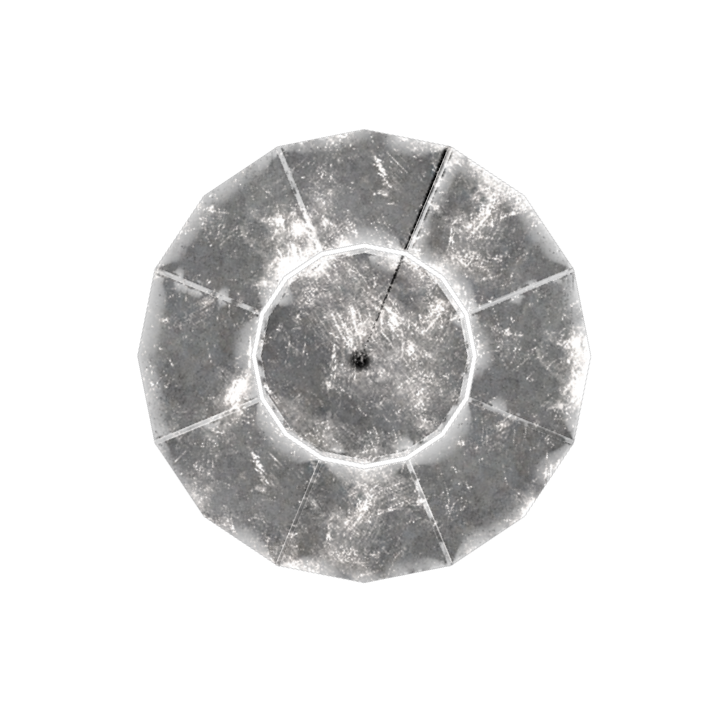
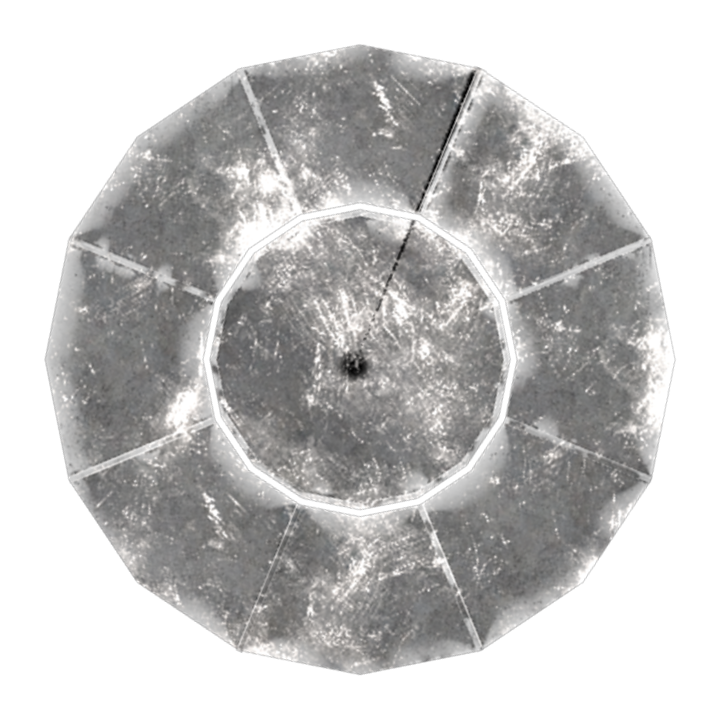
Dodanie statystyk, podmiana tarczy, poprawa materiałów, znikalność okienek

diff --git a/Assets/Scripts/GameLogicDataScript.cs b/Assets/Scripts/GameLogicDataScript.cs
@@ -3,6 +3,7 @@ using UnityEngine.UI;
 using System.Collections;
 using System.Collections.Generic;
 using System;
+using System.Text;
 
 /// <summary>
 /// Klasa odpowiada za logikę i przetrzymywanie danych o rozgrywce.
@@ -15,6 +16,28 @@ public class GameLogicDataScript : MonoBehaviour {
 	bool skonczonopotej=false;
 	bool skonczonopoprzeciwnej=false;
 	bool skonczylemprzesyl=false;
+
+
+	GameObject tlg;
+	GameObject tld;
+	GameObject tpd;
+	GameObject tpg;
+
+	//POLA STATYSTYK
+	/// <summary>
+	/// Przechowuje informację o liczbie aktualnej tury.
+	/// </summary>
+	public int tura=1;
+	static public int zablokowaneAtaki=0;
+	static public int wykonaneAtaki=0;
+	static public int wykonaneObrony=0;
+	static public double pozostaleZycie=0;
+	static public int wynik=0;
+	static string statystyki;
+
+	static string plikStatystyk="stats.sts";
+
+
 	//POLA DOTYCZĄCE LOGIKI ROZGRYWKI
 	/// <summary>
 	/// Długość jednej rundy.
@@ -51,10 +74,7 @@ public class GameLogicDataScript : MonoBehaviour {
 	public static double interwalAkcjaGracza=0.0;
 
 
-	/// <summary>
-	/// Przechowuje informację o liczbie aktualnej tury.
-	/// </summary>
-	public int tura=1;
+
 	/// <summary>
 	/// Flaga, która przyjmuje fałsz po upływie czasu tury.
 	/// </summary>
@@ -190,6 +210,10 @@ public class GameLogicDataScript : MonoBehaviour {
 	/// Inicjalizuje pola graczy, czas i teksty wyświetlane na HUD'zie
 	/// </summary>
 	void Start () {
+		tlg=GameObject.Find("tabliczkalewagorna");
+		tld=GameObject.Find("tabliczkalewadolna");
+		tpd=GameObject.Find("tabliczkaprawadolna");
+		tpg=GameObject.Find("tabliczkaprawagorna");
 		player=GameObject.Find("Player");
 		opponent=GameObject.Find("Opponent");
 		punktyAkcjiGracza=10;
@@ -352,8 +376,8 @@ public class GameLogicDataScript : MonoBehaviour {
 
 								if (!animacjaNPCSkonczona) {
 									akcjeNPC [jAnim].animuj ();
-								GameObject.Find ("strataNPCText").GetComponent<Text> ().text = "-" + GameLogicDataScript.stratyNPC.ToString () + " p";
-							}
+									GameObject.Find ("strataNPCText").GetComponent<Text> ().text = "-" + GameLogicDataScript.stratyNPC.ToString () + " p";
+								}
 								if ((pozostalePAGracza > 0) && (pozostalePANPC > 0)) {
 									aktKosztPAGracza = akcjeGracza [i].getKoszt ();
 									aktKosztPANPC = akcjeNPC [j].getKoszt ();
@@ -414,6 +438,7 @@ public class GameLogicDataScript : MonoBehaviour {
 											interwalAkcjaGracza = System.Convert.ToDouble (aktKosztPAGracza) * mnoznikCzasu;
 											interwalAkcjaNPC = System.Convert.ToDouble (aktKosztPANPC) * mnoznikCzasu;
 
+											if (pokryte>0) zablokowaneAtaki+=1;
 											pozostalePANPC -= aktKosztPANPC;
 											akcjeNPC [j].setIloscPol (akcjeNPC [j].getIloscPol () - pokryte);
 											((Atak)akcjeNPC [j]).aktualizujObrazenia ();
@@ -532,7 +557,8 @@ public class GameLogicDataScript : MonoBehaviour {
 												pozostalePAGracza -= aktKosztPAGracza;
 												ii = 1;
 											}
-										} else if ((pozostalePAGracza - aktKosztPAGracza) < (pozostalePANPC - aktKosztPANPC)) {
+										} 
+										else if ((pozostalePAGracza - aktKosztPAGracza) < (pozostalePANPC - aktKosztPANPC)) {
 											if (akcjaNPCSkonczona) {
 												jAnim = j;
 												/*print("------------------------------------------------------------AKCJA! ng:D n szybszy");
@@ -546,7 +572,8 @@ public class GameLogicDataScript : MonoBehaviour {
 												pozostalePANPC -= aktKosztPANPC;
 												jj = 1;
 											}
-										} else {
+										} 
+										else {
 											if ((akcjaGraczaSkonczona) && (akcjaNPCSkonczona)) {
 												jAnim = j;
 												iAnim = i;
@@ -571,8 +598,8 @@ public class GameLogicDataScript : MonoBehaviour {
 											}
 										}
 									}
-
-								} else if ((pozostalePAGracza > 0) && (pozostalePANPC <= 0)) {
+								} 
+								else if ((pozostalePAGracza > 0) && (pozostalePANPC <= 0)) {
 									aktKosztPAGracza = akcjeGracza [i].getKoszt ();
 									if (akcjaGraczaSkonczona) {
 										iAnim = i;
@@ -593,7 +620,8 @@ public class GameLogicDataScript : MonoBehaviour {
 										}
 										ii = 1;
 									}
-								} else if ((pozostalePANPC > 0) && (pozostalePAGracza <= 0)) {
+								} 
+								else if ((pozostalePANPC > 0) && (pozostalePAGracza <= 0)) {
 									aktKosztPANPC = akcjeNPC [j].getKoszt ();
 									if (akcjaNPCSkonczona) {
 										jAnim = j;
@@ -614,7 +642,8 @@ public class GameLogicDataScript : MonoBehaviour {
 										}
 										jj = 1;
 									}
-								} else {
+								} 
+								else {
 									//print("Koniec kolejki");
 									//j--; i--; animacjaGraczaSkonczona=false; animacjaNPCSkonczona=false;
 									j = akcjeNPC.Count - 1;
@@ -628,8 +657,27 @@ public class GameLogicDataScript : MonoBehaviour {
 								}
 
 								//jeśli, któryś z graczy umarł, zakończ rozgrywkę
-								if ((zycieNPC <= 0) || (zycieGracza <= 0))
-									koniecRozgrywki = true;
+								if ((zycieNPC<=0) || (zycieGracza<=0)){
+									if ((zycieNPC<=0)&&(zycieGracza>0)) {
+										wynik=1;
+										zycieNPC=0;
+										zapiszStatystyke();
+										koniecRozgrywki = true;
+									}
+									else if ((zycieNPC>0)&&(zycieGracza<=0)) {
+										wynik=0;
+										zycieGracza=0;
+										zapiszStatystyke();
+										koniecRozgrywki = true;
+									}
+									else if ((zycieNPC<=0)&&(zycieGracza<=0)) {
+										wynik=2;
+										zycieNPC=0;
+										zycieGracza=0;
+										zapiszStatystyke();
+										koniecRozgrywki = true;
+									}
+								}
 								aktualizujZycie ();
 							}
 
@@ -649,17 +697,27 @@ public class GameLogicDataScript : MonoBehaviour {
 						if (!animacjaGraczaSkonczona) akcjeGracza [iAnim].animuj ();
 						if (!animacjaNPCSkonczona) akcjeNPC [jAnim].animuj ();
 						if (animacjaNPCSkonczona&&animacjaGraczaSkonczona&&akcjaNPCSkonczona&&akcjaGraczaSkonczona){
+							tpd.active=false;
+							tld.active=false;
+							tpg.active=false;
+							tlg.active=false;
 							GameObject.Find("RundaHUDText").GetComponent<Text>().text="";	//ukrywam (czyszczę tekst) rundy wyświetlane na HUD'zie
 							GameObject.Find("CzasHUDText").GetComponent<Text>().text="";	//ukrywam (czyszczę tekst) czas wyświetlany na HUD'zie
 							GameObject.Find("ZycieGraczaHUDText").GetComponent<Text>().text="";	//ukrywam (czyszczę tekst) życie gracza wyświetlane na HUD'zie
 							GameObject.Find("ZycieNPCHUDText").GetComponent<Text>().text="";	//ukrywam (czyszczę tekst) życie NPC wyświetlane na HUD'zie
 							GameObject.Find("PAGraczaHUDText").GetComponent<Text>().text="";	//ukrywam (czyszczę tekst) punkty akcji wyświetlane na HUD'zie
-							//jeśli to gracz stracił życie pokaż tekst przegranej na HUD'zie
-							if((zycieGracza<=0)&&(zycieNPC>0)) GameObject.Find("WynikHUDText").GetComponent<Text>().text="Przegrana\n"+tura.ToString()+" rund";
+							statystyki=wczytajStatystyke();
+							GameObject.Find("WynikHUDText").GetComponent<Text>().text=statystyki;
+							/*//jeśli to gracz stracił życie pokaż tekst przegranej na HUD'zie
+							if((zycieGracza<=0)&&(zycieNPC>0)) {
+								GameObject.Find("WynikHUDText").GetComponent<Text>().text="Przegrana\n"+tura.ToString()+" rund";
+							}
 							//jeśli to NPC stracił życie pokaż tekst wygranej na HUD'zie
-							else if((zycieGracza>0)&&(zycieNPC<=0)) GameObject.Find("WynikHUDText").GetComponent<Text>().text="Zwycięstwo\n"+tura.ToString()+" rund";
+							else if((zycieGracza>0)&&(zycieNPC<=0)) {
+								GameObject.Find("WynikHUDText").GetComponent<Text>().text="Zwycięstwo\n"+tura.ToString()+" rund";
+							}
 							//jeśli to obaj stracili życie pokaż tekst remisu na HUD'zie
-							else GameObject.Find("WynikHUDText").GetComponent<Text>().text="Remis\n"+tura.ToString()+" rund";
+							else GameObject.Find("WynikHUDText").GetComponent<Text>().text="Remis\n"+tura.ToString()+" rund";*/
 							GameObject.Find ("CanvasButton").GetComponent<Canvas> ().enabled=false;
 
 						}
@@ -694,6 +752,8 @@ public class GameLogicDataScript : MonoBehaviour {
 					turaTrwa=false;	//przestawiam flagę trwania tury na fałsz
 
 					GameObject.Find("HUDCombatArea").GetComponent<Renderer>().enabled=false;
+					tlg.active=false;
+					tpg.active=false;
 					GameObject.Find("RundaHUDText").GetComponent<Text>().text="";	//ukrywam (czyszczę tekst) rundy wyświetlane na HUD'zie
 					GameObject.Find("CzasHUDText").GetComponent<Text>().text="";	//ukrywam (czyszczę tekst) czas wyświetlany na HUD'zie
 					GameObject.Find("PAGraczaHUDText").GetComponent<Text>().text="";	//ukrywam (czyszczę tekst) punkty akcji wyświetlane na HUD'zie
@@ -785,6 +845,10 @@ public class GameLogicDataScript : MonoBehaviour {
 							wykonane=false;
 						}
 						if (!koniecRozgrywki) {
+							tpd.active=false;
+							tld.active=false;
+							GameObject.Find("ZycieGraczaHUDText").GetComponent<Text>().text="";	//ukrywam (czyszczę tekst) życie gracza wyświetlane na HUD'zie
+							GameObject.Find("ZycieNPCHUDText").GetComponent<Text>().text="";	//ukrywam (czyszczę tekst) życie NPC wyświetlane na HUD'zie
 							if (skonczonopotej&&multiplayer) GameObject.Find("NastepnaTuraHUDText").GetComponent<Text>().text="Poczekaj na drugiego gracza...";
 							else GameObject.Find("NastepnaTuraHUDText").GetComponent<Text>().text="Wciśnij [ŚPM], aby przejść do kolejnej tury.";
 							rysujHistore ();
@@ -827,6 +891,11 @@ public class GameLogicDataScript : MonoBehaviour {
 								aktualizujPA();
 
 								GameObject.Find("HUDCombatArea").GetComponent<Renderer>().enabled=true;
+								tlg.active=true;
+								tpg.active=true;
+								tpd.active=true;
+								tld.active=true;
+								aktualizujZycie();
 								wykonane=false;
 								przejscieSkonczone=false;
 							}
@@ -846,6 +915,41 @@ public class GameLogicDataScript : MonoBehaviour {
 		}
 		print("Wysyłam: "+doprzeslania);
 		nv.RPC("OdbierzDane",RPCMode.Others,doprzeslania);
+	}
+
+	void zapiszStatystyke(){
+		string str;
+		pozostaleZycie=zycieGracza;
+		switch(wynik){
+			case 0: str="Przegrana"; break;
+			case 1: str="Zwycięstwo"; break;
+			case 2: str="Remis"; break;
+			default: str="-"; break;
+		}
+		str+=" "+tura+" rund: "+wykonaneAtaki+" ataków  "+zablokowaneAtaki+" zablokowanych ataków  "+wykonaneObrony+" obron  "+pozostaleZycie+" pkt życia";
+		string old=wczytajStatystyke();
+		System.IO.StreamWriter sr = new System.IO.StreamWriter(plikStatystyk); //otworzenie pliku do zapisu
+		sr.WriteLine(str);
+		sr.WriteLine(old);
+		sr.Close();
+	}
+
+	string wczytajStatystyke(){
+		string str="";
+		tura=0;
+		zablokowaneAtaki=0;
+		wykonaneAtaki=0;
+		wykonaneObrony=0;
+		pozostaleZycie=0;
+		wynik=0;
+		System.IO.StreamReader sr = new System.IO.StreamReader(plikStatystyk, Encoding.UTF8);   //otworzenie pliku, ustawienie kodowania
+		while (!sr.EndOfStream) //do konca strumienia
+		{
+			string line = sr.ReadLine();
+			if (line.Length>0)str+=line+"\n";
+		}
+		sr.Close();
+		return str;
 	}
 
 	[RPC]
@@ -2198,6 +2302,7 @@ public class Atak : Czynnosc {
 	/// <param name="iloscPol">Ilosc zaznaczonych pól w tej akcji.</param>
 	/// <param name="moc">Moc ataku.</param>
 	public Atak(bool gracz, bool [,] hitbox, int koszt, int iloscPol, int moc) : base(gracz, hitbox, koszt, iloscPol) {
+		if (gracz) GameLogicDataScript.wykonaneAtaki+=1;
 		this.typAkcji=true;
 		this.moc=moc;
 		//w zależności od ilości pól stwierdzamy jaki to atak i przypisujemy mu obrażenia
@@ -2352,6 +2457,7 @@ public class Obrona : Czynnosc {
 	/// <param name="koszt">Koszt tej akcji.</param>
 	/// <param name="iloscPol">Ilosc zaznaczonych pól w tej akcji.</param>
 	public Obrona(bool gracz, bool [,] hitbox, int koszt, int iloscPol) : base(gracz, hitbox, koszt, iloscPol) {
+		if (gracz) GameLogicDataScript.wykonaneObrony+=1;
 		this.typAkcji=false;
 		this.animacja="Defense";
 		this.dzwiek="ShieldHit";
